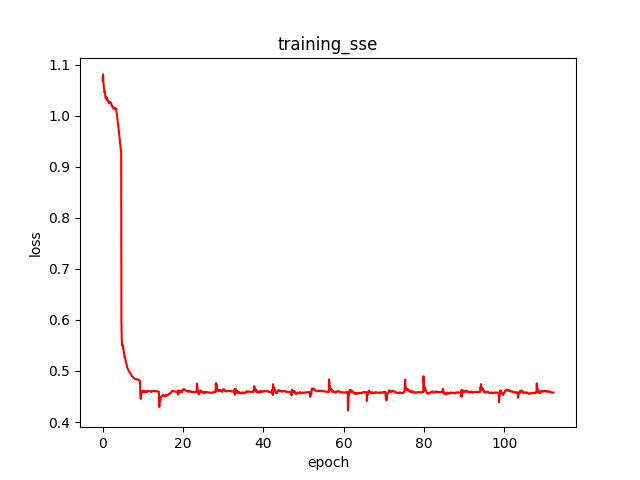
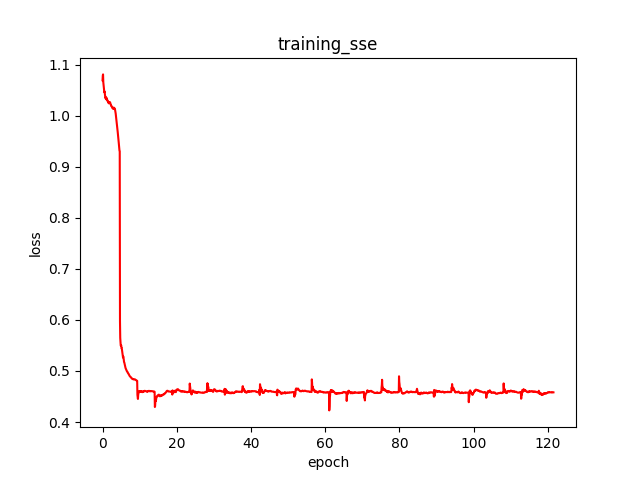
finished exahead training

diff --git a/python/FFNN_MODEL_001/config--beatAML_data.py b/python/FFNN_MODEL_001/config--beatAML_data.py
@@ -9,7 +9,7 @@ THIS IS THE BEATAML ONLY CONFIG FILE
 ###############################################################################
 
 params = {
-'NAME' : 'BEATAML-DATA-003',
+'NAME' : 'BEATAML-DATA-005',
 
 # -----------------------------------------------------------------------------
 # -----------------------------------------------------------------------------
@@ -33,21 +33,21 @@ params = {
     ## `i` indicates the order of classification layers
 'RESP_TYPES' : {x:i for i,x in enumerate(['beatAML_AUC'])},
 
-'H1' : 3000,
-'H2' : 3000,
+'H1' : 4000,
+'H2' : 4000,
 'H3' : 1000,                # Layer 3 - Dataset Shared
-'DH' : 500,                # Dataset Specific Layer
+'DH' : 100,                # Dataset Specific Layer
 
-'DO' : 0.7,                # Dropout
+'DO' : 0.5,                # Dropout
 'NCONVS' : 10,
 'PRINT_EVERY' : 1,
 'NGENES' : 523, #/ 523
-'EPOCHS' : 100,
+'EPOCHS' : 200,
 'LEARNING_WEIGHT' : 1e-1,
 'WEIGHT_DECAY' : 0.1,
-'LR_DECAY_PATIENCE' : 15,       # batches (not epochs)
+'LR_DECAY_PATIENCE' : 75,       # batches (not epochs)
 
-'PRETRAIN_EPOCHS' : 10,
+'PRETRAIN_EPOCHS' : 5,
 'PRETRAIN_LR' : 1e-2,
 'PRETRAIN_WD' : 0.2,
 'PRETRAIN_DO' : 0.9,

diff --git a/python/FFNN_MODEL_001/config--all_data.py b/python/FFNN_MODEL_001/config--all_data.py
@@ -2,7 +2,7 @@
 
 '''
 params = {
-'NAME' : 'ALL-DATA-3FC_002',
+'NAME' : 'ALL-DATA-3FC_006',
 
 # -----------------------------------------------------------------------------
 # -----------------------------------------------------------------------------
@@ -31,20 +31,20 @@ params = {
                                         'AUC_drug_CCLE',
                                         'beatAML_AUC'])},
 
-'H1' : 1000,
-'H2' : 1000,
-'H3' : 750,                # Layer 3 - Dataset Shared
-'DH' : 500,                # Dataset Specific Layer
+'H1' : 5000,
+'H2' : 5000,
+'H3' : 100,                # Layer 3 - Dataset Shared
+'DH' : 100,                # Dataset Specific Layer
 
 'DO' : 0.5,                # Dropout
 'NCONVS' : 10,
 'PRINT_EVERY' : 1,
 'NGENES' : 523, #/ 523
-'EPOCHS' : 50,
+'EPOCHS' : 25,
 'LEARNING_WEIGHT' : 1e-1,
 'WEIGHT_DECAY' : 0.01,
 'LR_DECAY_PATIENCE' : 50,       # batches (not epochs)
-'PRETRAIN_EPOCHS' : 5,
+'PRETRAIN_EPOCHS' : 2,
 'PRETRAIN_LR' : 1e-1,
 'PRETRAIN_WD' : 0.1,
 'PRETRAIN_DO' : 0.9,
